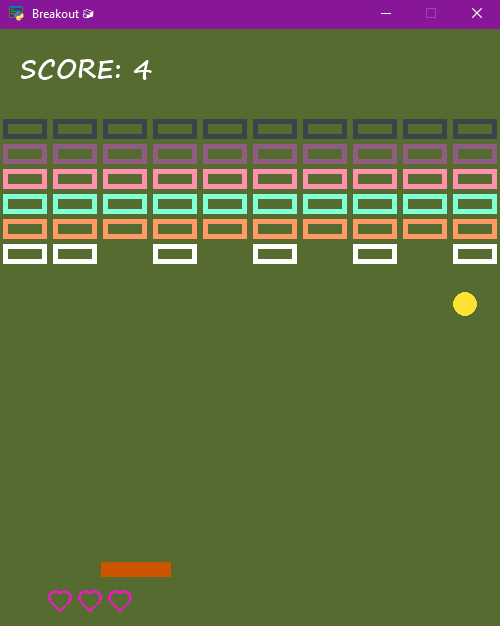
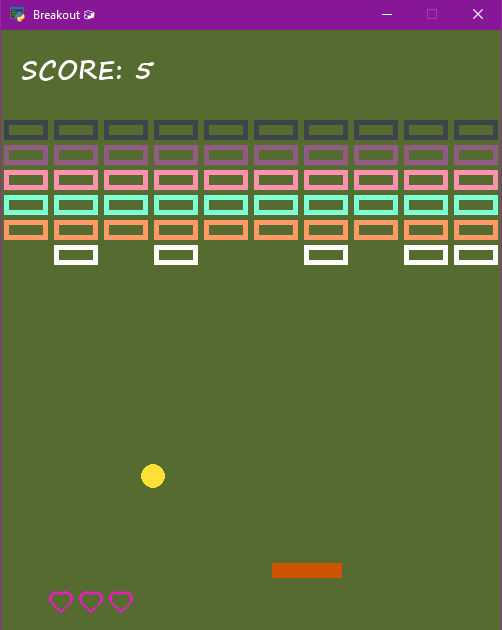
16

diff --git a/assignment_16/breakout/ball.py b/assignment_16/breakout/ball.py
@@ -6,7 +6,7 @@ class Ball(arcade.Sprite):
         super().__init__()
         self.color = arcade.color.BANANA_YELLOW
         self.radious = 12
-        self.speed = 5
+        self.speed = 2
 
         self.center_x = game.width//2
         self.center_y = game.height//2
